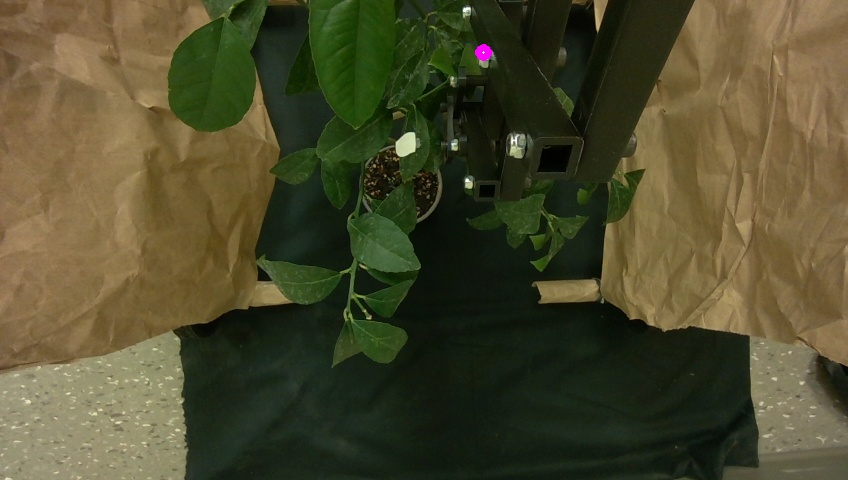
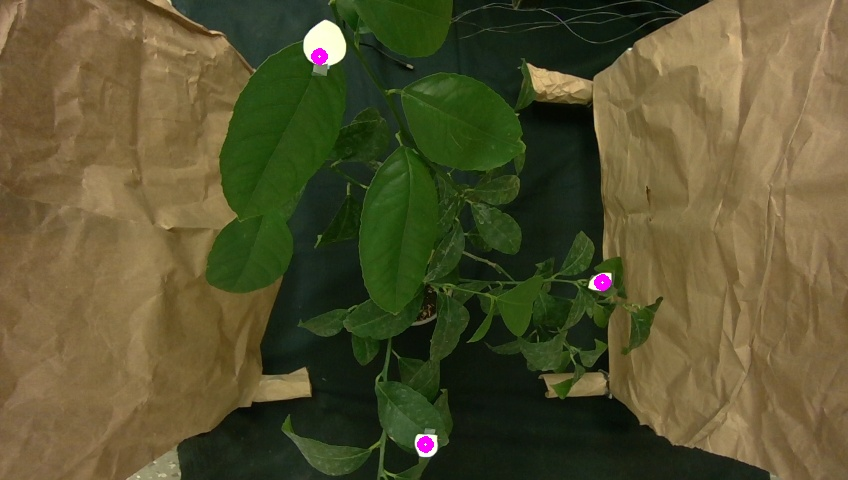
ideal manual exposure

diff --git a/jetson/src/core/imaging.cpp b/jetson/src/core/imaging.cpp
@@ -71,7 +71,7 @@ cv::Mat colorMask(cv::Mat& image, Pixel ideal, double angleTol, double lengthTol
 	return thresholded;
 }
 
-cv::Mat whiteMask(cv::Mat& image) {
+cv::Mat whiteMask(cv::Mat& image, uint8_t brightest) {
 	cv::Mat thresholded =  cv::Mat::zeros(cv::Size(image.cols, image.rows), CV_8UC1);;
 
 	for (int i = 0; i < image.rows; i++) {
@@ -81,7 +81,7 @@ cv::Mat whiteMask(cv::Mat& image) {
 			double r = p->x;
 			double g = p->y;
 			double b = p->z;
-			if (g/r > 0.95 && g/r < 1.05 && g/b > 0.9 && g/b < 1.1 && b > 245) {
+			if (g/r > 0.95 && g/r < 1.05 && g/b > 0.9 && g/b < 1.1 && b > brightest*0.9) {
 				thresholded.at<uchar>(i, j) = 255;
 			}
 		}
@@ -115,7 +115,7 @@ std::vector<Point2D> findFlowerCenters(cv::Mat& image, Camera & cam, std::string
 	uint8_t brightest = (uint8_t) brightestPixelVal(image);
 	log(std::string("brightest pixel value: ") + std::to_string(brightest));
 
-	cv::Mat white = whiteMask(image);
+	cv::Mat white = whiteMask(image, brightest);
 	cv::imwrite("./plots/" + tag + "_white.png", white);
 
 	cv::Mat green = greenMask(image);
@@ -155,6 +155,11 @@ Camera::Camera() : color{rs2::frame()}, depth{rs2::frame()} {
 	log(std::string("INFO Camera: starting init"));
 	p.start();
 	
+	// set manual exposure
+	auto colorSensor = p.get_active_profile().get_device().query_sensors()[0];
+	colorSensor.set_option(RS2_OPTION_ENABLE_AUTO_EXPOSURE, 0);
+	colorSensor.set_option(RS2_OPTION_EXPOSURE, 60000);
+
 	// Block program until frames arrive
 	storeSnapshot();
 	log(std::string("INFO Camera: first frame read"));
@@ -163,12 +168,9 @@ Camera::Camera() : color{rs2::frame()}, depth{rs2::frame()} {
 	rs2_error *e = 0;
 	rs2::video_stream_profile profile(depth.get_profile());
 	intrinsic = profile.get_intrinsics();
-
-	// set manual exposure
-	auto colorSensor = p.get_active_profile().get_device().query_sensors()[1];
-	colorSensor.set_option(RS2_OPTION_ENABLE_AUTO_EXPOSURE, 0);
-	colorSensor.set_option(RS2_OPTION_EXPOSURE, 78000);
+	
 	log(std::string("INFO Camera: init done"));
+	
 }
 
 // returns the most recent snapshot

diff --git a/jetson/src/core/main.cpp b/jetson/src/core/main.cpp
@@ -20,8 +20,8 @@ std::vector<Point3D> test_image_processing(Camera & cam) {
 	cv::Mat image = cam.getColorImage();
 
 	cv::cvtColor(image, image, cv::COLOR_RGB2BGR);
-	std::string tag = getFormattedTimeStamp();
-	cv::imwrite("./plots/" + tag + "_original_image.png", image);
+	std::string tag = std::string("");
+	cv::imwrite("./plots/original_image.png", image);
 	cv::cvtColor(image, image, cv::COLOR_BGR2RGB);
 		
 	log(std::string("finding yellow blobs!!!!!!"));
@@ -36,7 +36,7 @@ std::vector<Point3D> test_image_processing(Camera & cam) {
 	}
 
 	cv::Mat depth = cam.getDepthImage();
-	cv::imwrite("./plots/" + tag + "_depth.png", depth);
+	cv::imwrite("./plots/depth.png", depth);
 	int width = image.cols;
 	int height = image.rows;
 
